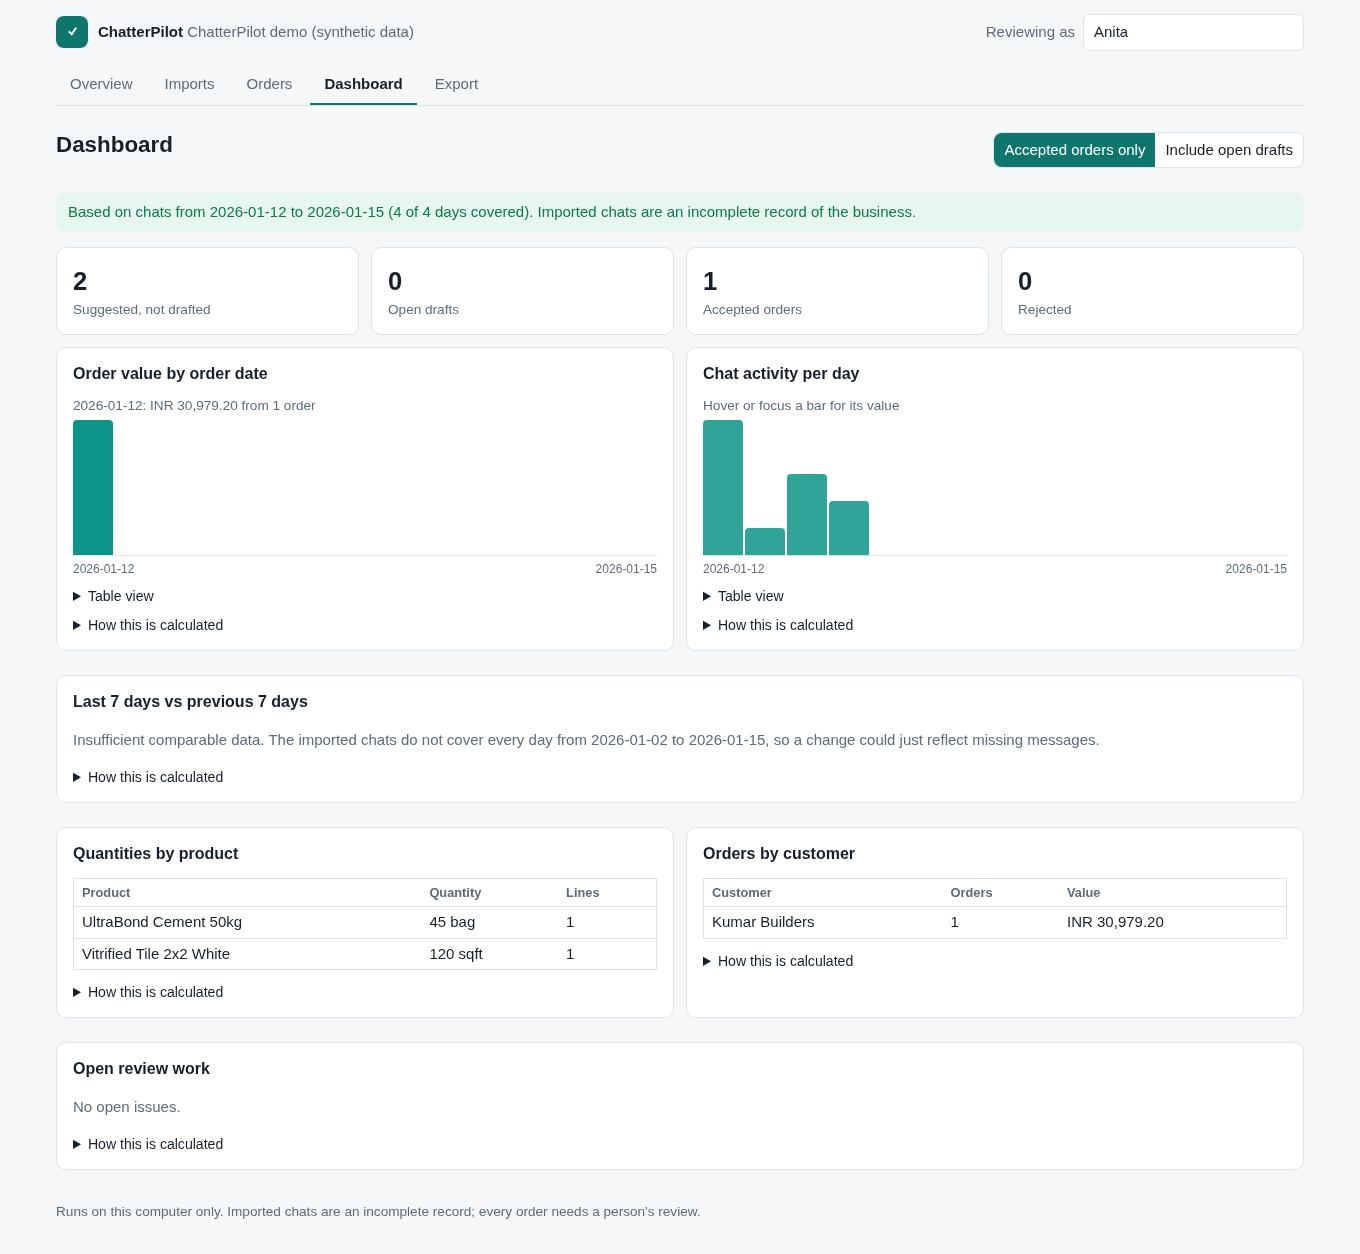
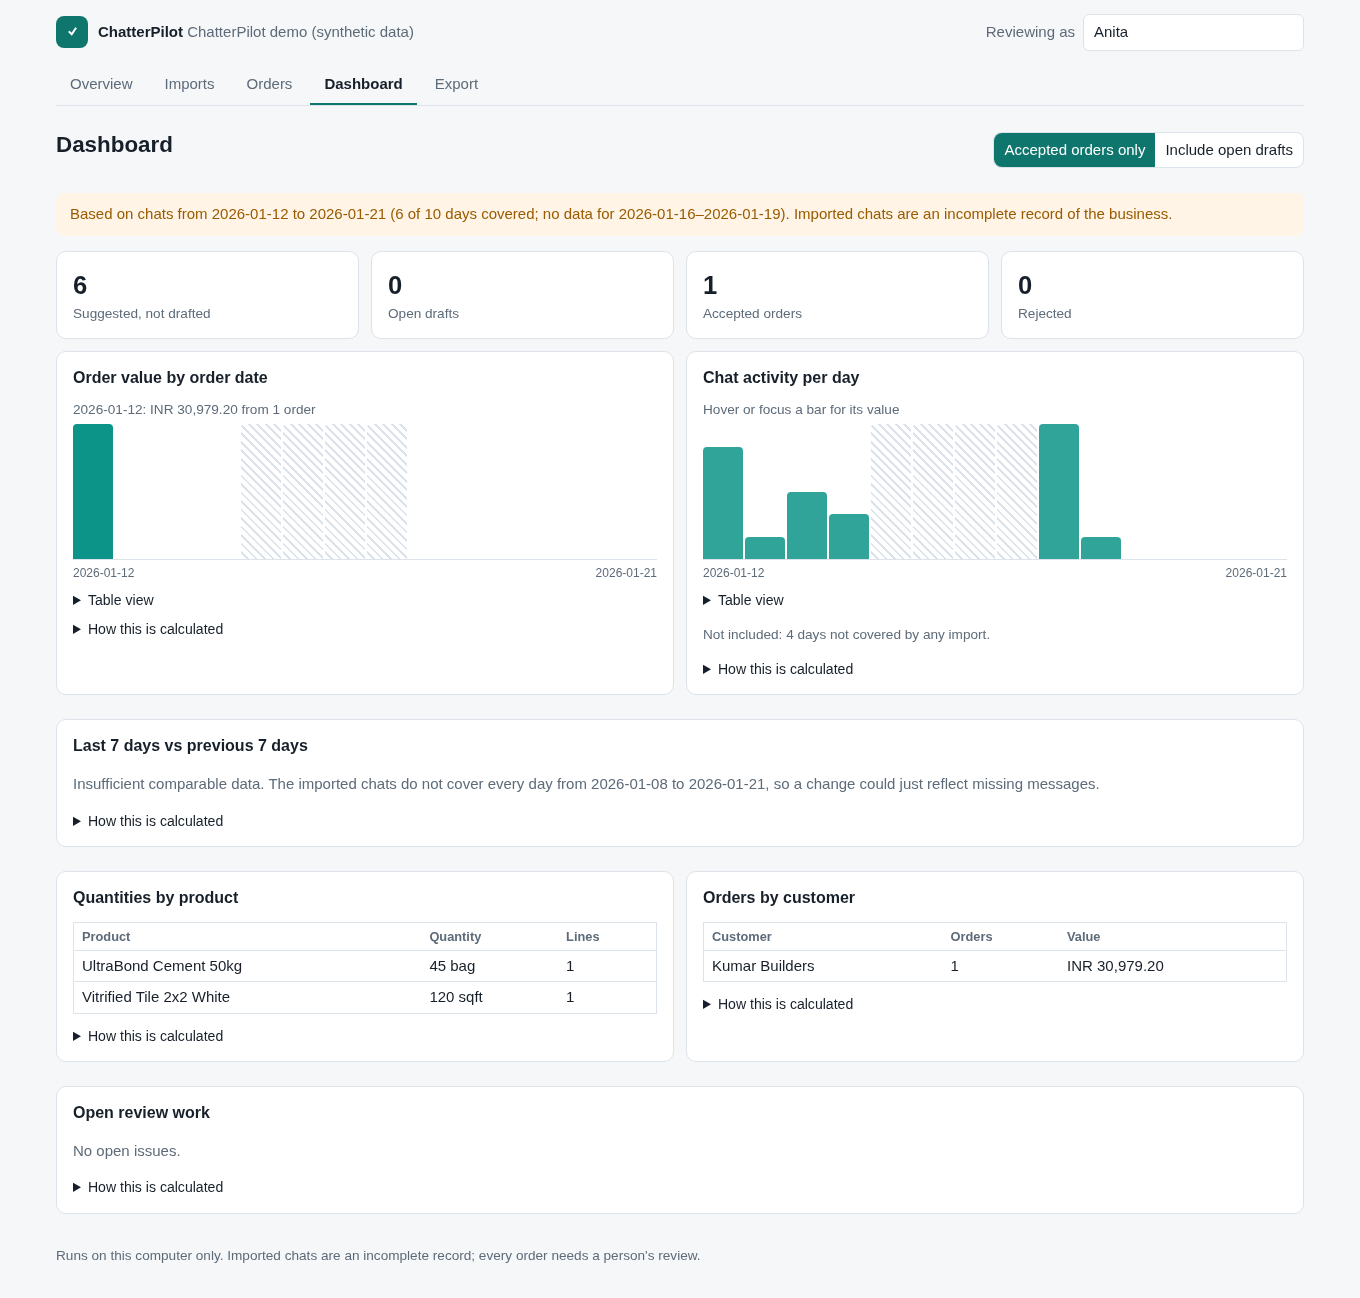
Test the export targets in the browser and refresh the screenshots
The demo test now prepares a Zoho file and checks that Tally refuses
until names are mapped. The screenshots are regenerated, with a new
one of the Export tab in the README, and the overview mentions the
import files.

diff --git a/apps/local/e2e/demo.spec.ts b/apps/local/e2e/demo.spec.ts
@@ -65,6 +65,17 @@ test("demo: review a chat order end to end without any outbound request", async 
   expect(text).toContain('"45.000"');
   expect(text).not.toContain('"40.000"');
 
+  // Import files for other tools: Zoho prepares a file; Tally refuses until names are mapped.
+  const zoho = page.locator(".panel").filter({ hasText: "Zoho Books" });
+  await zoho.getByRole("button", { name: "Prepare file" }).click();
+  await expect(
+    zoho.getByRole("link", { name: /Download chatterpilot-sales-orders-zoho\.csv/ }),
+  ).toBeVisible();
+  const tally = page.locator(".panel").filter({ hasText: "Tally Prime" });
+  await tally.getByRole("button", { name: "Prepare file" }).click();
+  await expect(tally.getByText(/export-map\.json/).last()).toBeVisible();
+  if (SCREENSHOTS) await page.screenshot({ path: `${shot}export.png`, fullPage: true });
+
   // Dashboard: reviewed-only money metrics, explicit coverage, no invented trend.
   await page.getByRole("link", { name: "Dashboard", exact: true }).click();
   // Three synthetic chats cover Jan 12-15 and Jan 20-21; the gap is shown, not hidden.

diff --git a/apps/local/web/src/views/Overview.tsx b/apps/local/web/src/views/Overview.tsx
@@ -57,7 +57,8 @@ export function Overview({ status }: { status: Status | null }) {
           catalogue, a calculation or your edit. Unknowns stay unknown.
         </li>
         <li>
-          <strong>Export</strong> accepted orders as CSV or JSON for your billing or ERP tool.
+          <strong>Export</strong> accepted orders as CSV or JSON, or as an import file for Tally,
+          ERPNext, Zoho Books or UBL.
         </li>
       </ol>
     </section>

diff --git a/README.md b/README.md
@@ -54,6 +54,8 @@ flowchart LR
 
 ![Dashboard with coverage banner, reviewed-only order value and a refused week-on-week trend](docs/images/dashboard.png)
 
+![Export tab: CSV/JSON plus experimental import files; Tally refuses until every name is mapped](docs/images/export.png)
+
 ## Try the demo
 
 Requires Node.js 26+ and pnpm 12.
